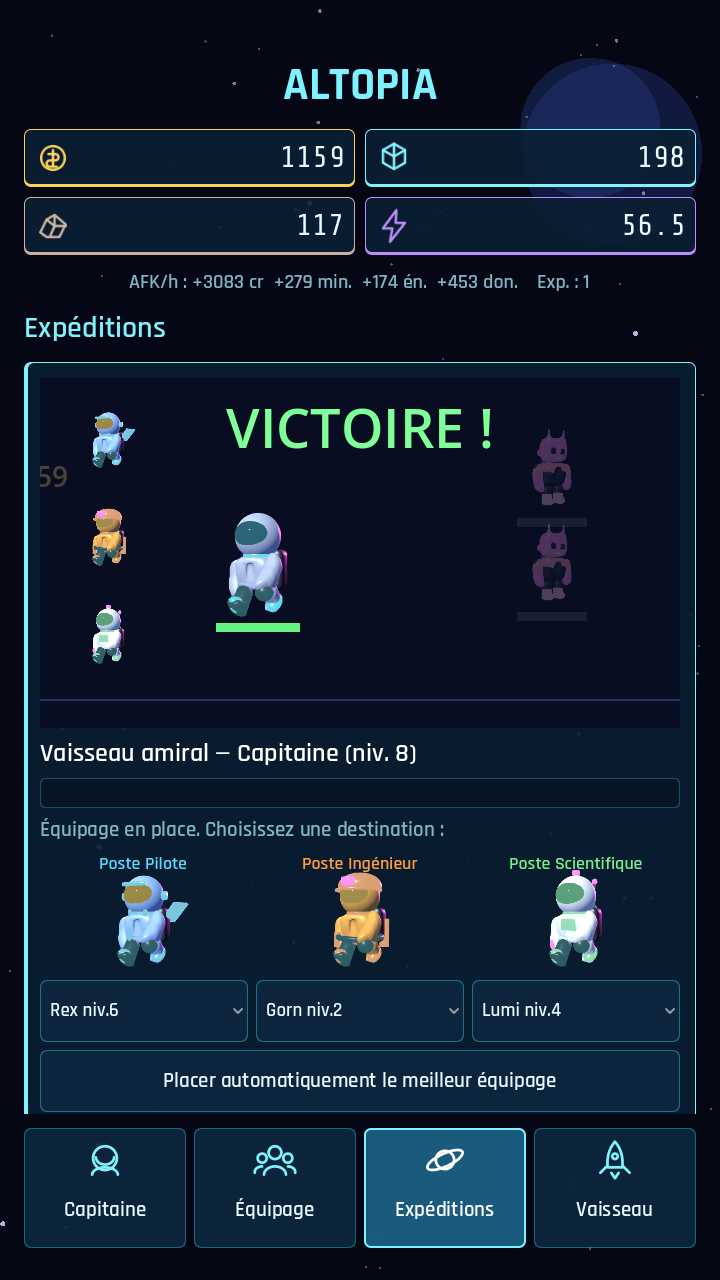
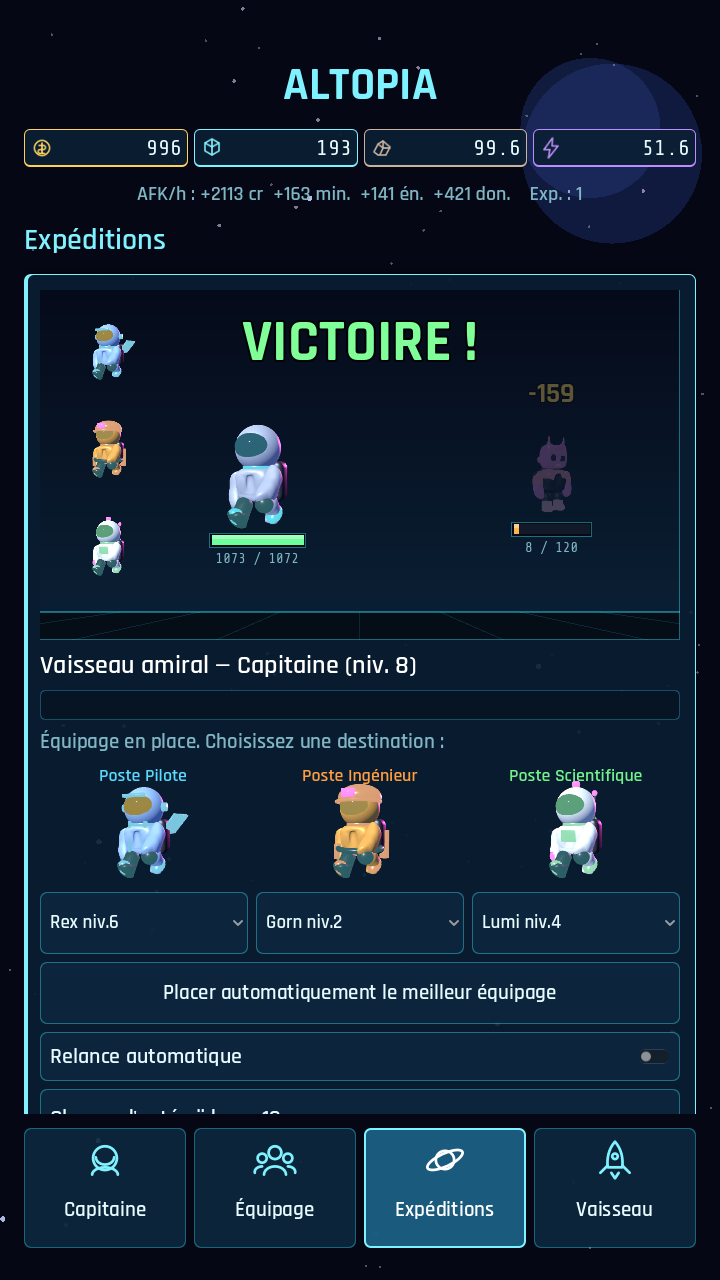
Interface R2 terminée : cartes d'équipement avec icônes et cadres de rareté, combat restylé (fond, PV, dégâts), rapport hors ligne en panneau
Claude-Session: https://claude.ai/code/session_0142Jyo9JqwzA1QeKtk2pHDW

diff --git a/docs/ROADMAP.md b/docs/ROADMAP.md
@@ -7,7 +7,7 @@
 - [x] **Combats animés** : coups, barres de vie, dégâts, bandeau de résultat, rejouable.
 - [x] **V2 — Le Capitaine** (inspiré de Mini Legion: Rise) : le joueur est un personnage personnalisable, l'équipage devient des objets à des postes, équipement évolutif avec butin, personnages « chibi » ([détails](V2.md)).
 - [x] **V2.1 — Équipage AFK + loot RPG** : production même hors ligne, rendement et durée hors ligne, 6 emplacements, 5 raretés, bonus aléatoires, recyclage auto.
-- [ ] **Style visuel** : choisir parmi 3 pistes (voir [STYLE.md](STYLE.md)), puis habiller l'interface et intégrer les assets.
+- [x] **Style visuel R2** : thème verre/cyan, polices, icônes SVG, cartes d'équipement à cadre de rareté, combat et rapport hors ligne restylés ([STYLE.md](STYLE.md)).
 - [ ] **V2-C — Anomalies** (donjons solo, meilleur temps), **boss de secteur**, **tour d'épreuves**.
 - [ ] **V2-D — Campagne** : chapitres narratifs, un par secteur.
 - [ ] Vrais assets graphiques et sons.
